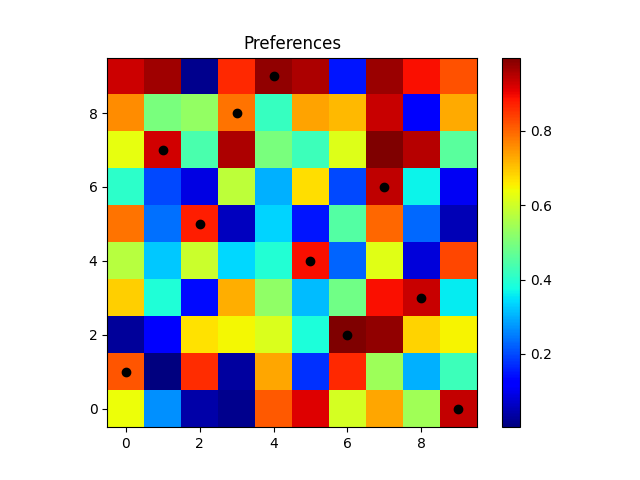
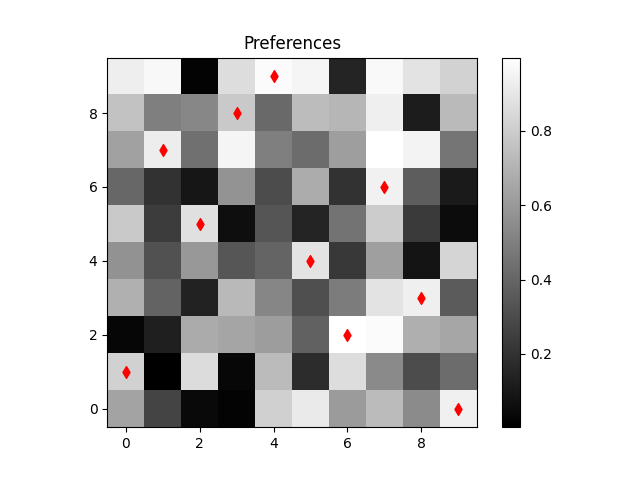
grayscale

diff --git a/maxsum.py b/maxsum.py
@@ -3,9 +3,43 @@ import matplotlib.pyplot as plt
 
 INF = 10^60  # infinity
 DAMP = 0.0  # between 0 and 1. 0 for fastest change.
-N_NODE = 6  # number of nodes per group
+N_NODE = 10  # number of nodes per group
 N_ITER = 100
 np.set_printoptions(precision=2)
+
+
+def main():
+    rng = np.random.default_rng(0)
+    w = rng.uniform(0, 1, (N_NODE, N_NODE))
+    print(f"weights:\n{w}")
+    beta = np.zeros((N_NODE, N_NODE))
+    eta = np.zeros((N_NODE, N_NODE))
+    rho = np.zeros((N_NODE, N_NODE))
+    alpha = np.zeros((N_NODE, N_NODE))
+
+    for i in range(N_ITER):
+        beta = update_beta(beta, alpha, w)
+        rho = update_rho(rho, eta, w)
+        alpha = update_alpha(alpha, rho)
+        eta = update_eta(eta, beta)
+
+
+    print(f"eta: {eta}")
+    print(f"alpha: {alpha}")
+    D = eta + alpha + w
+    print(f"D: {D}")
+    for row in range(N_NODE):
+        idx_max = np.argmax(D[row, :])
+        D[row, :] = 0
+        D[row, idx_max] = 1
+
+    is_valid = check_validity(D)
+    if is_valid:
+        print("Successful bipartite matching " + 
+        f"with pairings as \n{D}")
+        show_match(w, D)
+    else:
+        print("Pairing unsucessful.")
 
 
 def update_beta(beta, alpha, w):
@@ -55,48 +89,14 @@ def show_match(w, D):
     fig = plt.figure()
     ax = fig.add_subplot()
     ax.set_title('Preferences')
-    plt.imshow(w, origin='lower', cmap='jet')
+    plt.imshow(w, origin='lower', cmap='gray')
     plt.colorbar(orientation='vertical')
     x = np.linspace(0, N_NODE-1, N_NODE)
     y = np.argmax(D, axis=1)
     plt.scatter(y, x,
-                marker='o',
-                color='black')
+                marker='d',
+                color='red')
     plt.show()
-
-
-def main():
-    rng = np.random.default_rng(0)
-    w = rng.uniform(0, 1, (N_NODE, N_NODE))
-    print(f"weights:\n{w}")
-    beta = np.zeros((N_NODE, N_NODE))
-    eta = np.zeros((N_NODE, N_NODE))
-    rho = np.zeros((N_NODE, N_NODE))
-    alpha = np.zeros((N_NODE, N_NODE))
-
-    for i in range(N_ITER):
-        beta = update_beta(beta, alpha, w)
-        rho = update_rho(rho, eta, w)
-        alpha = update_alpha(alpha, rho)
-        eta = update_eta(eta, beta)
-
-
-    print(f"eta: {eta}")
-    print(f"alpha: {alpha}")
-    D = eta + alpha + w
-    print(f"D: {D}")
-    for row in range(N_NODE):
-        idx_max = np.argmax(D[row, :])
-        D[row, :] = 0
-        D[row, idx_max] = 1
-
-    is_valid = check_validity(D)
-    if is_valid:
-        print("Successful bipartite matching " + 
-        f"with pairings as \n{D}")
-        show_match(w, D)
-    else:
-        print("Pairing unsucessful.")
 
 
 if __name__=="__main__":
